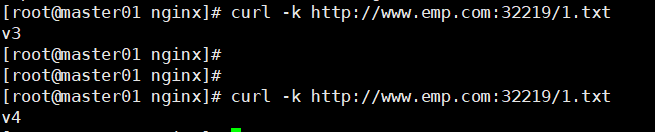
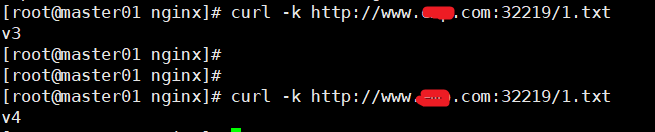
UPDATE CONTENT:Adjustment format.

Changed region(s): [[0.6107, 0.6667, 0.7023, 0.8182], [0.6412, 0.0303, 0.7023, 0.1515]]

diff --git a/devsecops/3181_Others/README.md b/devsecops/3181_Others/README.md
@@ -555,7 +555,7 @@ metadata:
 spec:
   ingressClassName: nginx
   rules:
-    - host: www.emp.com
+    - host: www.testxxx.com
       http:
         paths:
           - path: /
